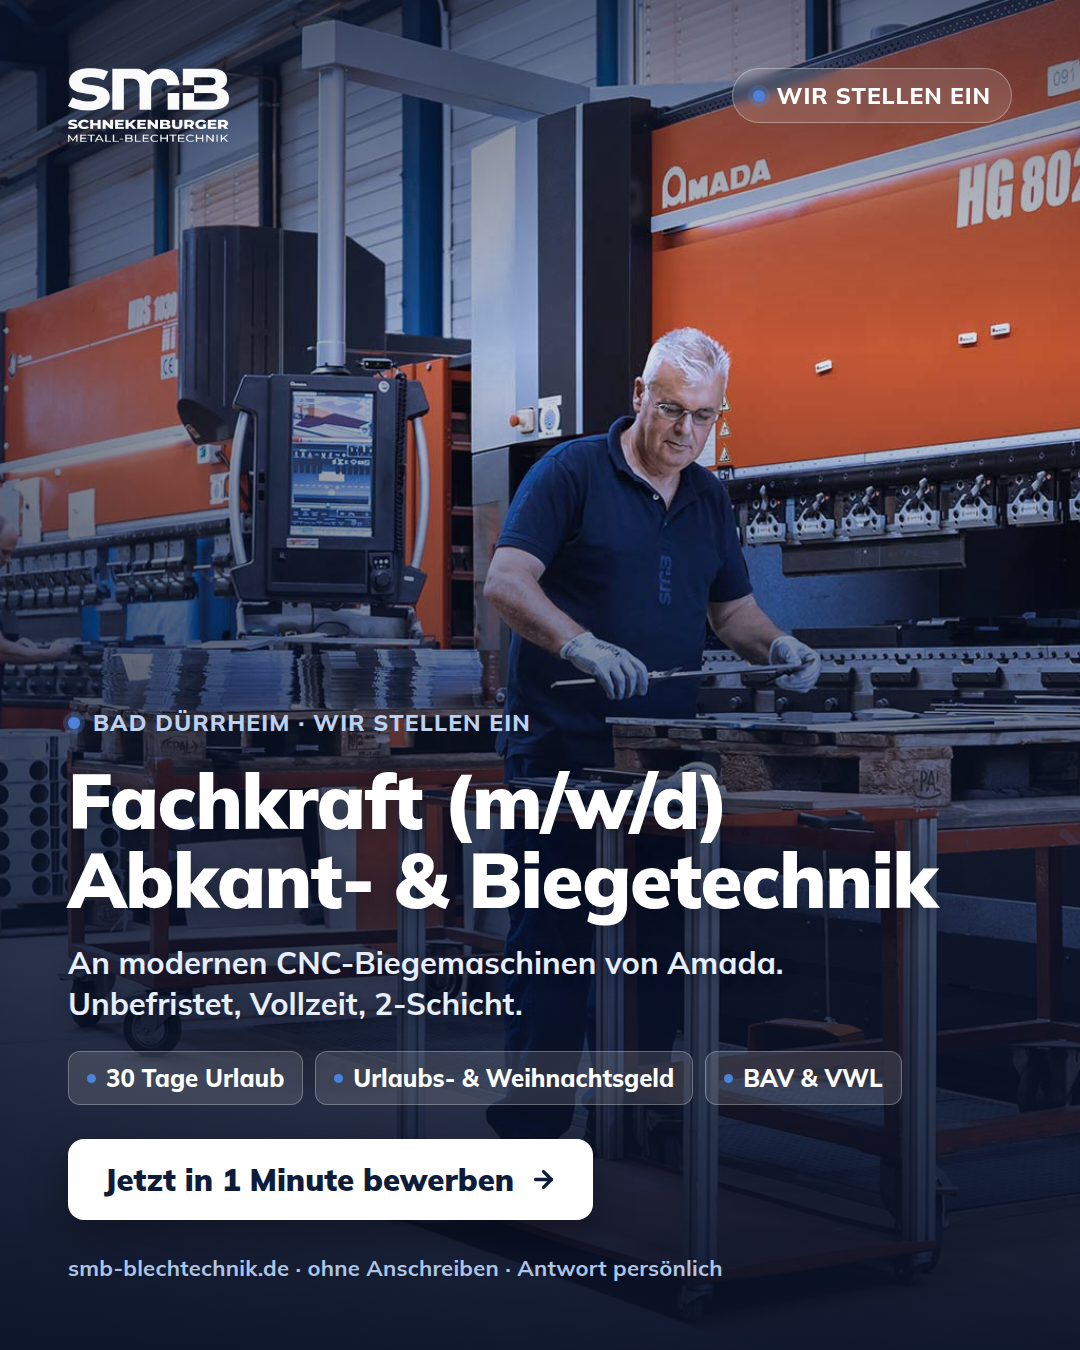
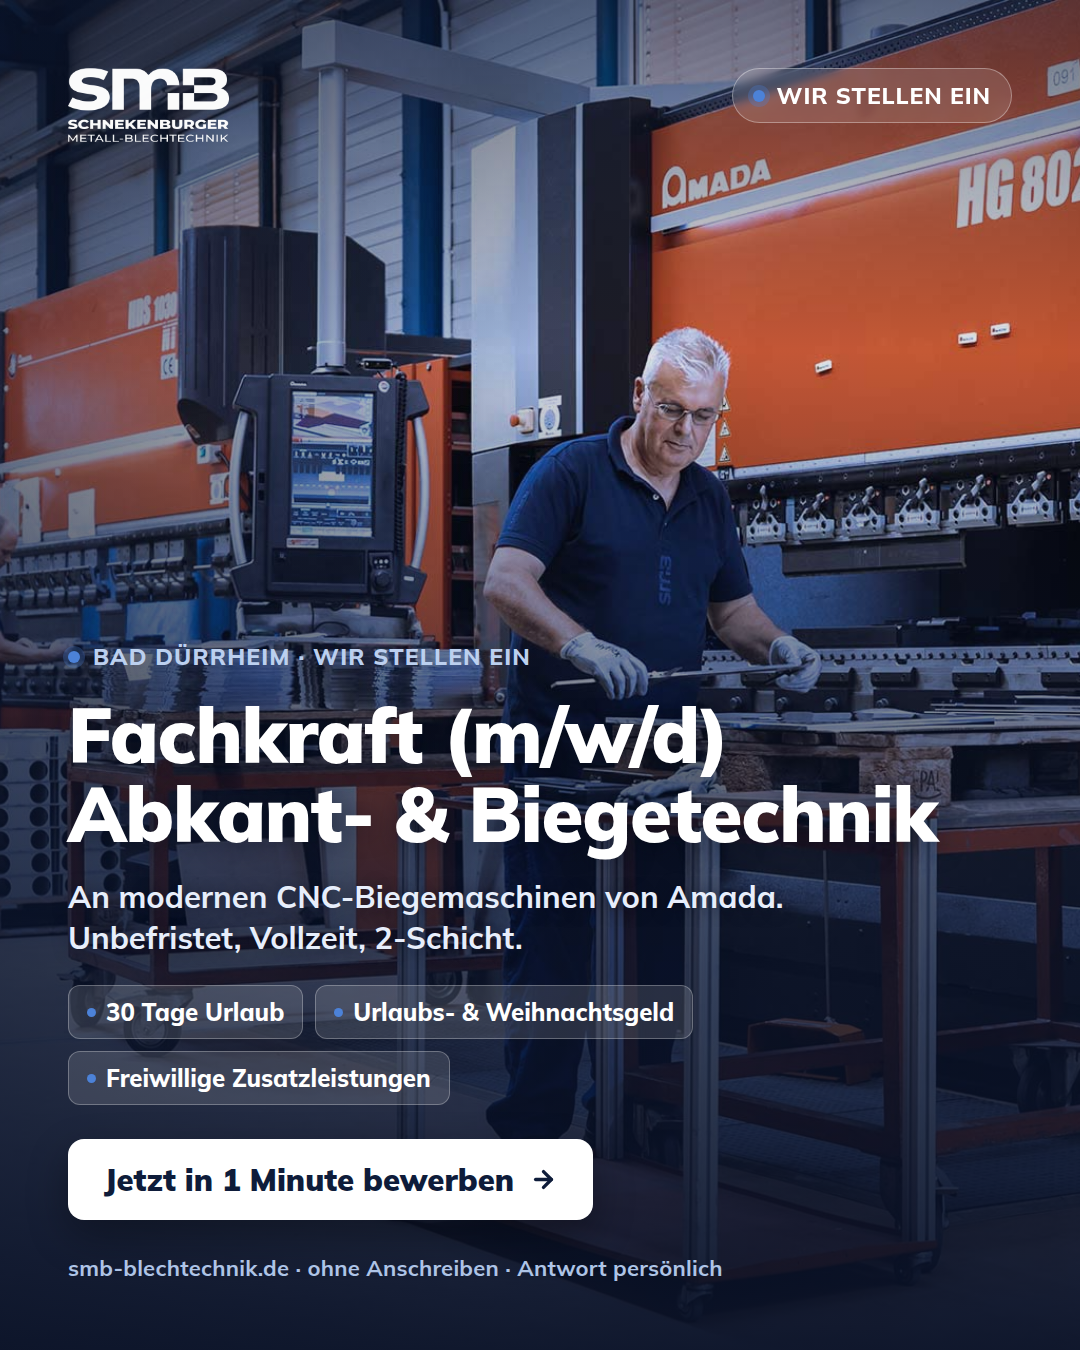
Replace "BAV & VWL" with "Freiwillige Zusatzleistungen" (client request)
Update the benefit label across the trust band, the benefits section and all
creative chips per the customer's feedback.

Claude-Session: https://claude.ai/code/session_01JYztvduyWbX4rzrfEFip6Q

Changed region(s): [[0.0611, 0.4667, 0.8861, 0.84]]

diff --git a/index.html b/index.html
@@ -431,7 +431,7 @@ footer{padding:52px 0 36px;background:var(--brand-900);color:#cddbf2}
     <div class="trust__grid">
       <div class="trust__item"><svg viewBox="0 0 24 24" fill="none" stroke-width="1.7" stroke-linecap="round" stroke-linejoin="round"><path d="M16 21v-2a4 4 0 0 0-4-4H6a4 4 0 0 0-4 4v2"/><circle cx="9" cy="7" r="4"/><path d="M22 21v-2a4 4 0 0 0-3-3.87"/><path d="M16 3.13a4 4 0 0 1 0 7.75"/></svg><div><b>Familiäres Team</b><span>Jeder kennt jeden</span></div></div>
       <div class="trust__item"><svg viewBox="0 0 24 24" fill="none" stroke-width="1.7" stroke-linecap="round" stroke-linejoin="round"><rect x="2" y="7" width="20" height="14" rx="2"/><path d="M16 21V5a2 2 0 0 0-2-2h-4a2 2 0 0 0-2 2v16"/></svg><div><b>Urlaubs- &amp; Weihnachtsgeld</b><span>On top zum Gehalt</span></div></div>
-      <div class="trust__item"><svg viewBox="0 0 24 24" fill="none" stroke-width="1.7" stroke-linecap="round" stroke-linejoin="round"><path d="M12 22s8-4 8-10V5l-8-3-8 3v7c0 6 8 10 8 10"/><path d="m9 12 2 2 4-4"/></svg><div><b>BAV &amp; VWL</b><span>Wir legen was drauf</span></div></div>
+      <div class="trust__item"><svg viewBox="0 0 24 24" fill="none" stroke-width="1.7" stroke-linecap="round" stroke-linejoin="round"><path d="M12 22s8-4 8-10V5l-8-3-8 3v7c0 6 8 10 8 10"/><path d="m9 12 2 2 4-4"/></svg><div><b>Freiwillige Zusatzleistungen</b><span>Extras oben drauf</span></div></div>
       <div class="trust__item"><svg viewBox="0 0 24 24" fill="none" stroke-width="1.7" stroke-linecap="round" stroke-linejoin="round"><rect x="3" y="4" width="18" height="18" rx="2"/><path d="M16 2v4M8 2v4M3 10h18"/></svg><div><b>30 Tage Urlaub</b><span>Zeit zum Durchatmen</span></div></div>
     </div>
   </div>
@@ -505,7 +505,7 @@ footer{padding:52px 0 36px;background:var(--brand-900);color:#cddbf2}
     <div class="benefit-grid">
       <div class="benefit reveal"><div class="benefit__ic"><svg viewBox="0 0 24 24" fill="none" stroke-width="1.8" stroke-linecap="round" stroke-linejoin="round"><rect x="2" y="7" width="20" height="14" rx="2"/><path d="M16 21V5a2 2 0 0 0-2-2h-4a2 2 0 0 0-2 2v16"/></svg></div><b>Urlaubs- &amp; Weihnachtsgeld</b><p>Zusätzlich zu deinem Gehalt – für Momente, in denen es zählt.</p></div>
       <div class="benefit reveal"><div class="benefit__ic"><svg viewBox="0 0 24 24" fill="none" stroke-width="1.8" stroke-linecap="round" stroke-linejoin="round"><rect x="2" y="5" width="20" height="14" rx="2"/><circle cx="12" cy="12" r="3"/><path d="M6 12h.01M18 12h.01"/></svg></div><b>Leistungsgerechte Entlohnung</b><p>Faire Bezahlung, die deine Arbeit wirklich anerkennt.</p></div>
-      <div class="benefit reveal"><div class="benefit__ic"><svg viewBox="0 0 24 24" fill="none" stroke-width="1.8" stroke-linecap="round" stroke-linejoin="round"><path d="M12 22s8-4 8-10V5l-8-3-8 3v7c0 6 8 10 8 10"/><path d="m9 12 2 2 4-4"/></svg></div><b>BAV &amp; VWL</b><p>Betriebliche Altersvorsorge und vermögenswirksame Leistungen – wir legen etwas drauf.</p></div>
+      <div class="benefit reveal"><div class="benefit__ic"><svg viewBox="0 0 24 24" fill="none" stroke-width="1.8" stroke-linecap="round" stroke-linejoin="round"><path d="M12 22s8-4 8-10V5l-8-3-8 3v7c0 6 8 10 8 10"/><path d="m9 12 2 2 4-4"/></svg></div><b>Freiwillige Zusatzleistungen</b><p>Extras oben drauf zum Gehalt – die passenden Leistungen besprechen wir gemeinsam.</p></div>
       <div class="benefit reveal"><div class="benefit__ic"><svg viewBox="0 0 24 24" fill="none" stroke-width="1.8" stroke-linecap="round" stroke-linejoin="round"><path d="M16 21v-2a4 4 0 0 0-4-4H6a4 4 0 0 0-4 4v2"/><circle cx="9" cy="7" r="4"/><path d="M22 21v-2a4 4 0 0 0-3-3.87"/><path d="M16 3.13a4 4 0 0 1 0 7.75"/></svg></div><b>Familiäres Betriebsklima</b><p>Kein anonymer Großbetrieb – bei uns kennt jeder jeden, und Zusammenhalt ist gelebter Alltag.</p></div>
       <div class="benefit reveal"><div class="benefit__ic"><svg viewBox="0 0 24 24" fill="none" stroke-width="1.8" stroke-linecap="round" stroke-linejoin="round"><rect x="3" y="4" width="18" height="18" rx="2"/><path d="M16 2v4M8 2v4M3 10h18"/><path d="m9 16 2 2 4-4"/></svg></div><b>30 Tage Urlaub</b><p>Genug Zeit zum Abschalten und Auftanken – jedes Jahr.</p></div>
       <div class="benefit reveal"><div class="benefit__ic"><svg viewBox="0 0 24 24" fill="none" stroke-width="1.8" stroke-linecap="round" stroke-linejoin="round"><path d="M20 10c0 6-8 12-8 12s-8-6-8-12a8 8 0 0 1 16 0z"/><circle cx="12" cy="10" r="3"/></svg></div><b>Sicher in der Region</b><p>Unbefristeter Arbeitsplatz in Bad Dürrheim – gut erreichbar, mit Parkplatz vor der Tür.</p></div>
